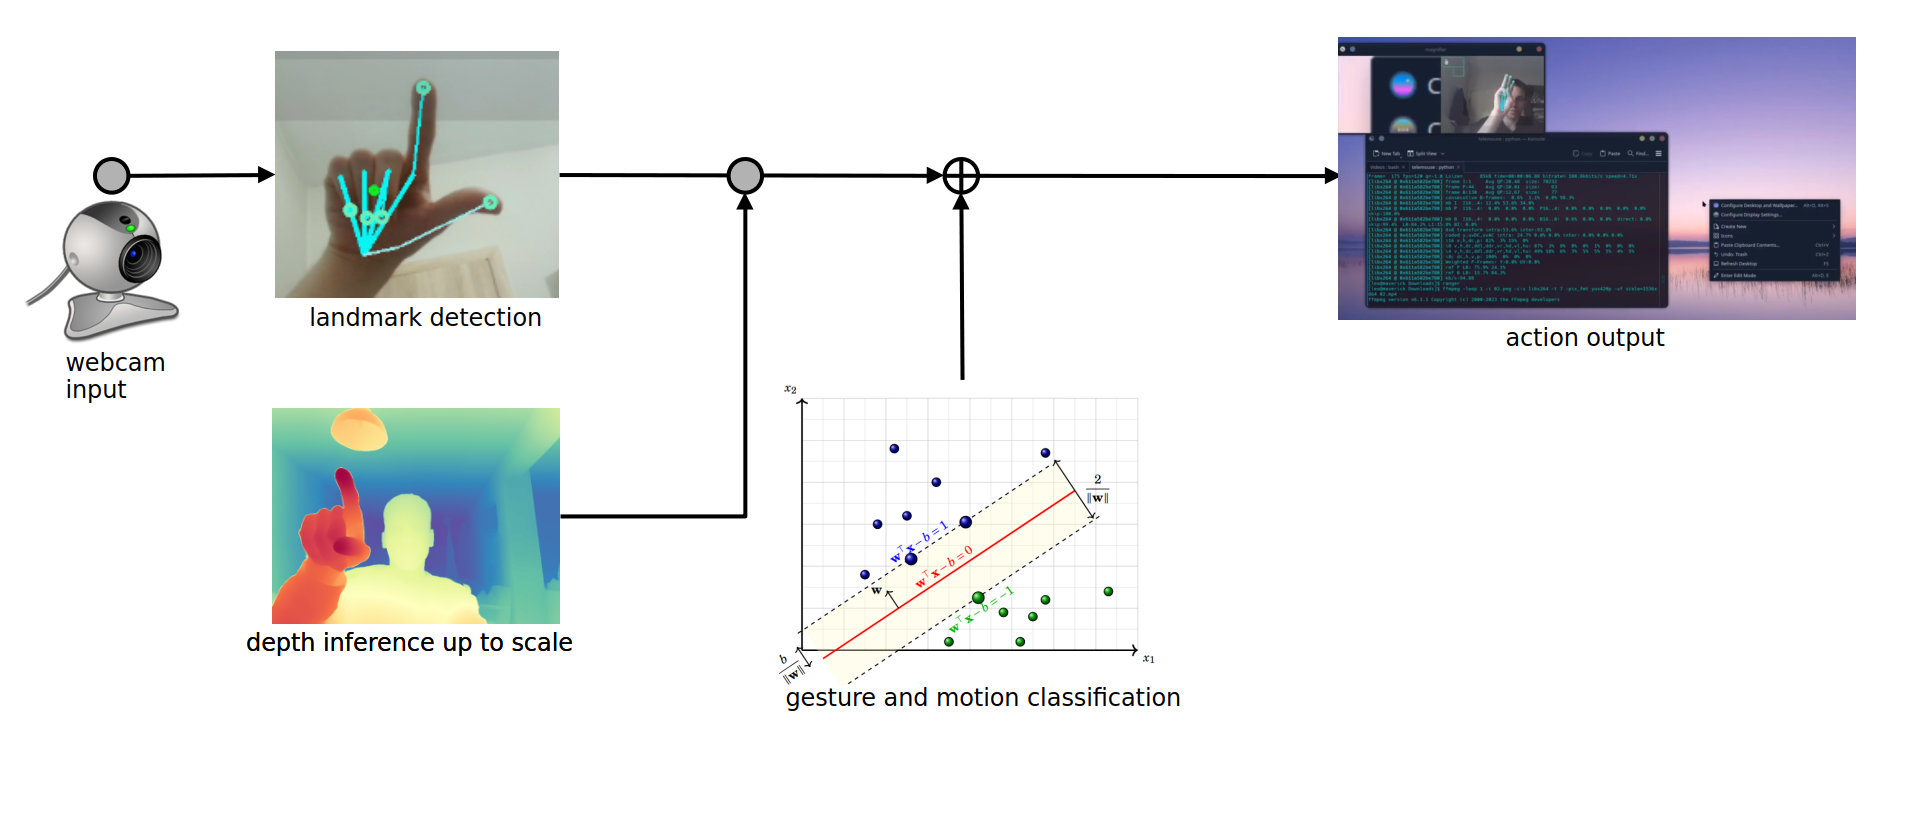
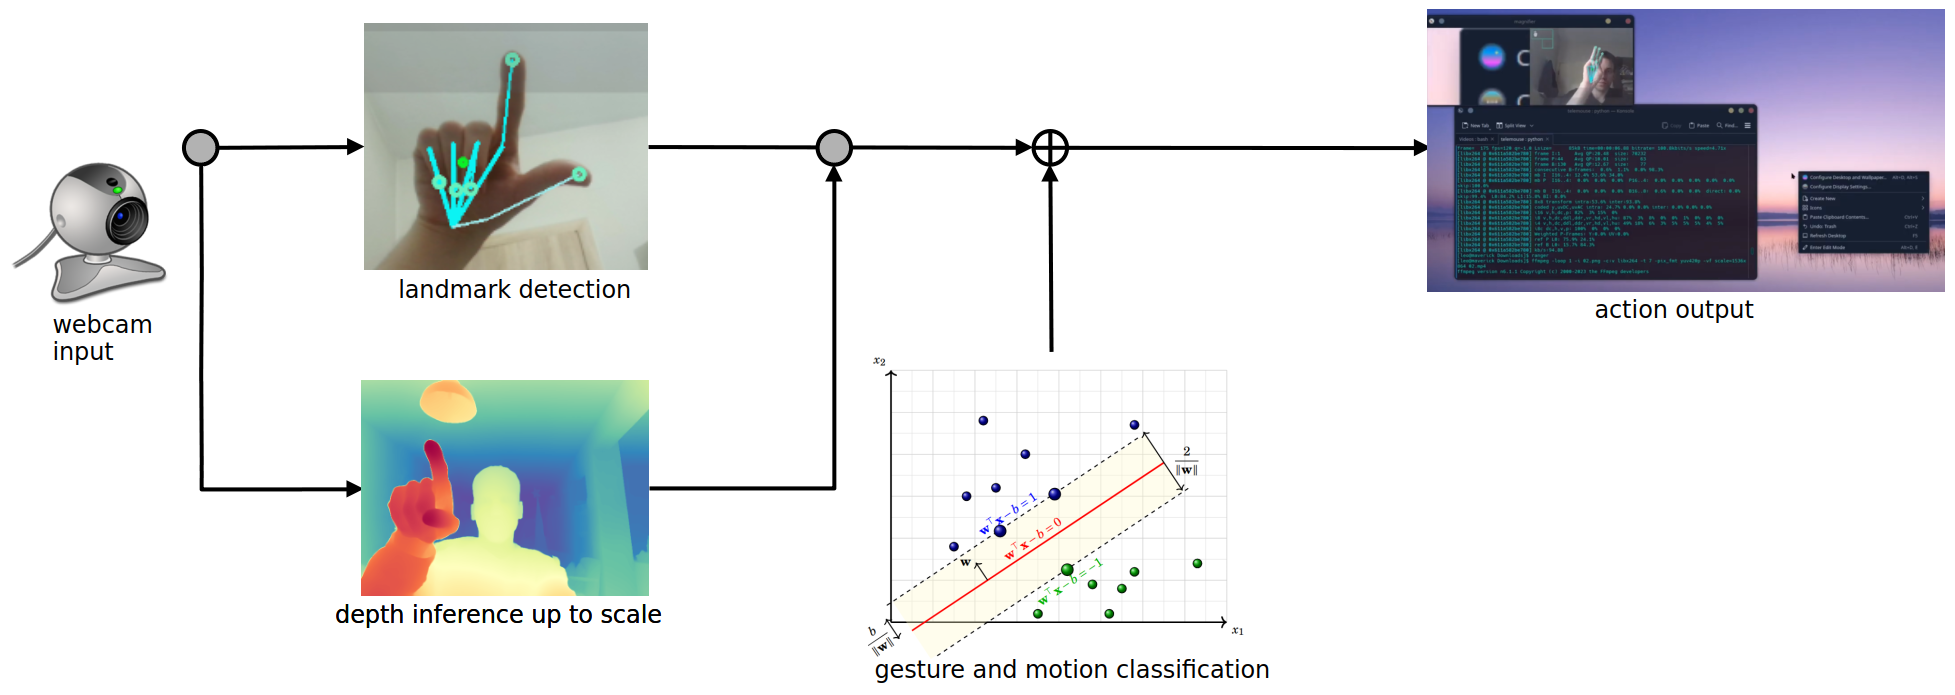
poster in main page

Changed region(s): [[0.0933, 0.4532, 0.6528, 0.9971], [0.0, 0.0302, 0.5907, 0.5439], [0.6839, 0.0, 0.9948, 0.4532]]

diff --git a/index.html b/index.html
@@ -37,7 +37,10 @@
             <div class="panel__content">
               <div class="copy">
                 <p class="subtitle">Take control of your device with your hand and a webcam.</p>
+                <img src="poster.png" alt="Poster" height="500">
               </div>
+              
+
 
               <div class="cta">
                 <a class="glass btn" href="./products/index.html">Demo</a>
